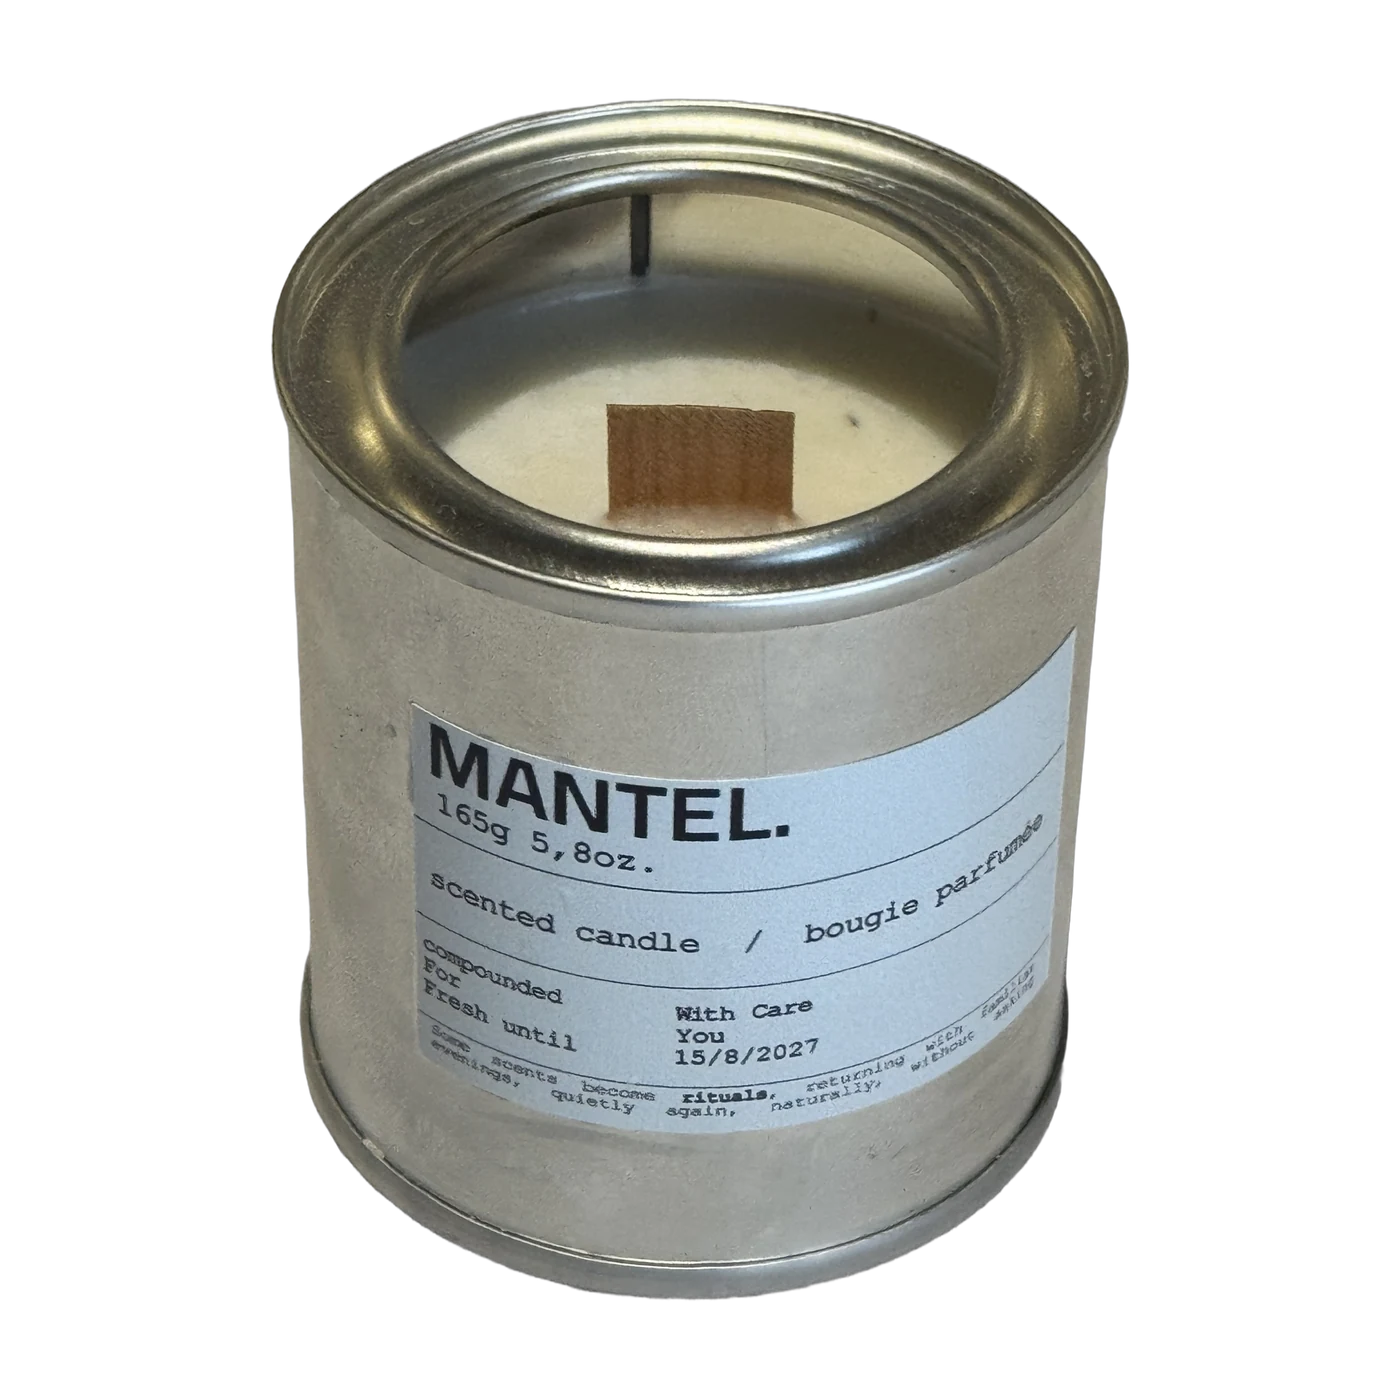
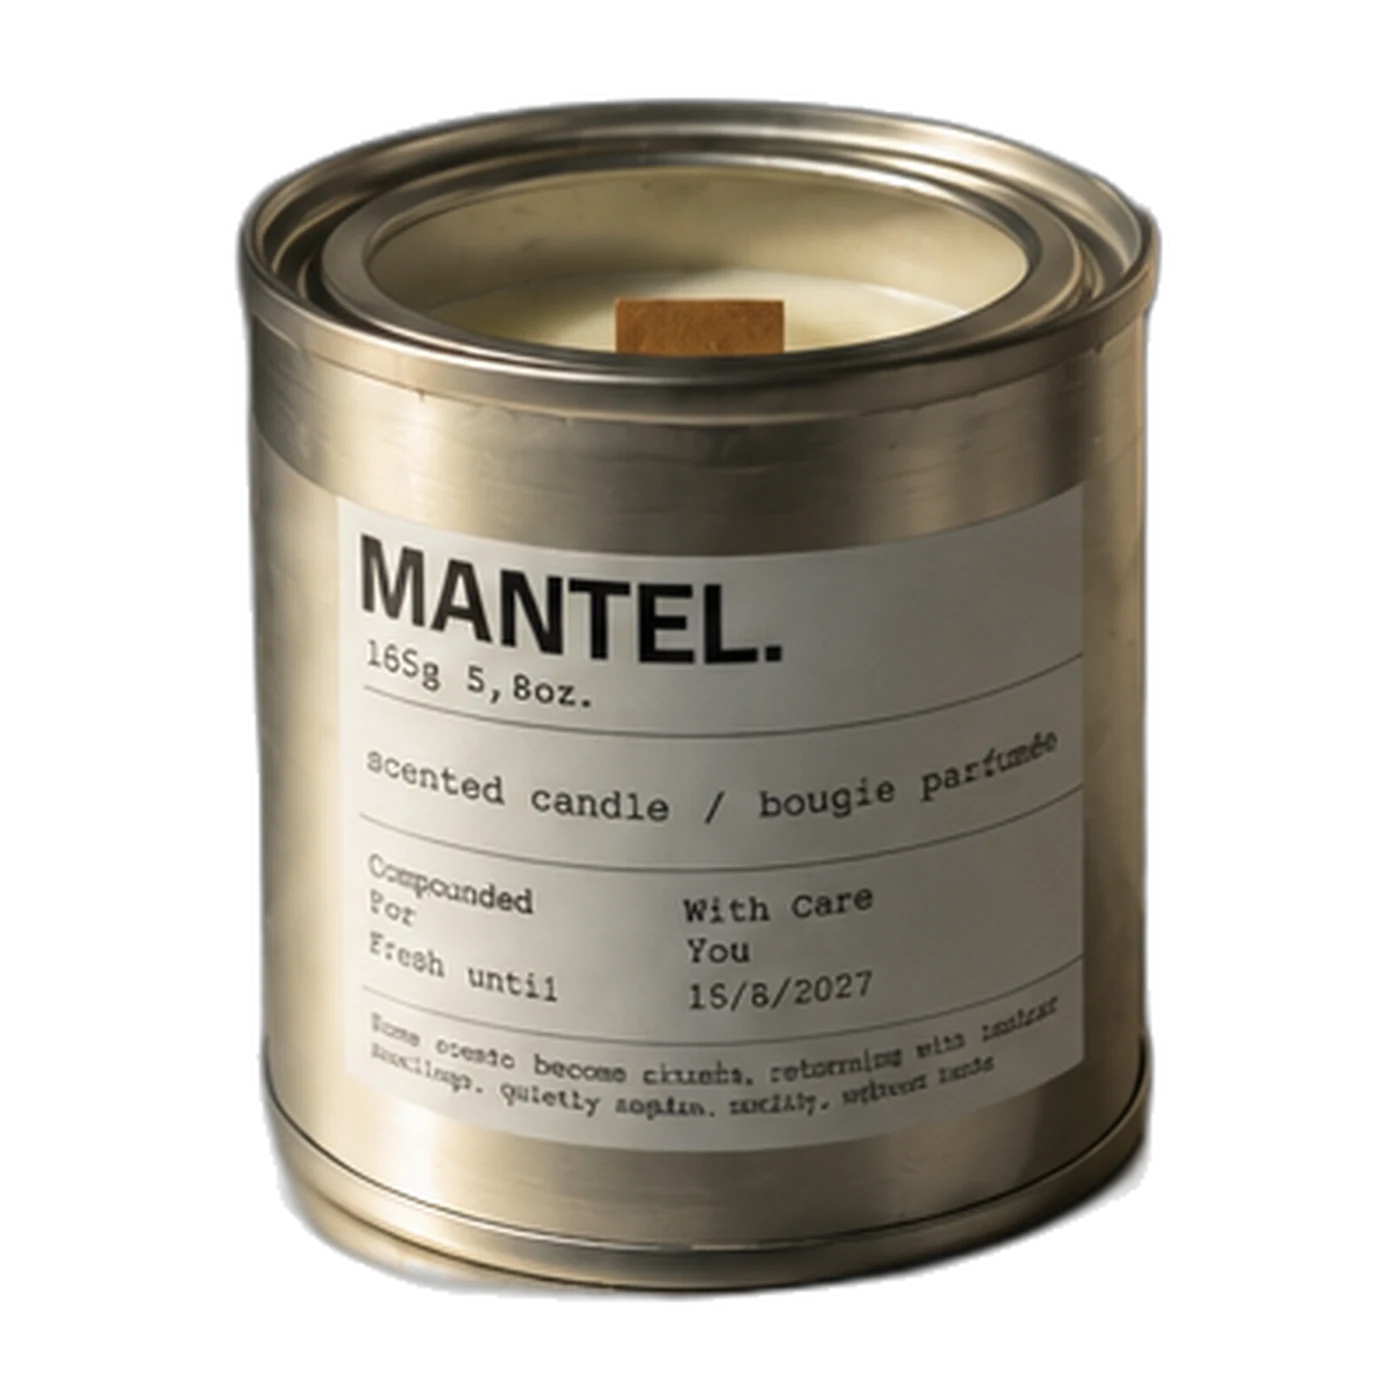
Split Lighters into two purchasable colourways, lead Match Sticks with the label shot, reshoot Candles
Lighters was one card stepping through both a leopard and a checkerboard
print, which meant "add to bag" always added whichever face the slider
happened to be showing — there was no way to actually choose a colour.
They're two separate lighters, not two faces of one, so they're now two
products (lighters-leopard, lighters-checkerboard), each with its own
front/back photos. 026 gives each its own Supabase objects row — App.tsx
resolves a backendId by matching RETAIL_PRODUCTS.name against objects.name,
so a split product needs a split row to stay purchasable. Dropped the
byAlias fallback in the same merge: "candles"/"match sticks"/"lighters"
all resolved to real, available rows directly once 013 published the
catalog, so it was matching nothing.

Match Sticks now leads with the printed label face instead of the open
box — same two photos, swapped order.

Candles gets its first real photo: the stamped tin, replacing the
placeholder macro shot.

Claude-Session: https://claude.ai/code/session_01YNooiFC1k2Jrv3Fm1HcV4i

diff --git a/src/app/content/retail.ts b/src/app/content/retail.ts
@@ -62,21 +62,24 @@ export type CartLine = {
 /*
  * ── THE PRODUCT PHOTOGRAPHS ─────────────────────────────────────────────────
  *
- * All five are the real objects. Candles is still the 2026-09-15 macro shot;
- * the other four were reshot 2026-09-23 — lighters, candle-sticks and
+ * All six are the real objects, reshot 2026-09-23 (candles, candle-sticks and
  * match-sticks each moved from one face to several, stepped through by
- * ObjectSlides the same way the tote already was:
+ * ObjectSlides the same way the tote already was):
  *
- *   candles        the stamped tin, macro
- *   lighters       both colourways, front then back each — leopard,
- *                  leopard, checkerboard, checkerboard
- *   candle-sticks  the pair of cream tapers, unlit then lit
- *   match-sticks   the open box, then the printed label face
- *   custom-bags    the "Mantel." tote and its red-heart face, also two
+ *   candles                the stamped tin, macro
+ *   lighters-leopard       front then back of the leopard lighter
+ *   lighters-checkerboard  front then back of the checkerboard lighter
+ *   candle-sticks          the pair of cream tapers, unlit then lit
+ *   match-sticks           the printed label face, then the open box
+ *   custom-bags            the "Mantel." tote and its red-heart face, also two
+ *
+ * Lighters used to be one card stepping through both colourways. Split into
+ * two products because they are two separate lighters, not two faces of one —
+ * each needs its own Supabase objects row to stay purchasable (see 026).
  *
  * matcha-powder used to be a sixth, and was the only one still on a pre-launch
- * mockup. It is gone rather than waiting for a photograph: a shelf of five real
- * objects reads better than six with one drawing.
+ * mockup. It is gone rather than waiting for a photograph: a shelf of real
+ * objects reads better than one with a drawing on it.
  *
  * EVERY FILE HERE IS A CUT-OUT ON TRANSPARENT PNG, trimmed to the object and
  * re-centred on one square canvas at a fixed margin. Both halves of that matter
@@ -121,29 +124,36 @@ export const RETAIL_PRODUCTS: RetailProduct[] = [
     collection: "Sits alongside the candles — the pair the shelf was built around.",
   },
   {
-    id: "lighters",
-    name: "Lighters",
+    id: "lighters-leopard",
+    name: "Lighters - Leopard",
     description: "A small object with a little ceremony.",
     price: 3,
     image: retailLighterLeopardFrontImage,
-    images: [
-      retailLighterLeopardFrontImage,
-      retailLighterLeopardBackImage,
-      retailLighterCheckerboardFrontImage,
-      retailLighterCheckerboardBackImage,
-    ],
+    images: [retailLighterLeopardFrontImage, retailLighterLeopardBackImage],
     tone: "lighter",
-    story: "A refillable flame in a pocket-sized case — one in leopard, one in checkerboard.",
+    story: "A refillable flame in a pocket-sized case, printed leopard.",
     care: "Refillable. Keep it out of reach of children and away from heat.",
-    collection: "Two colourways, leopard and checkerboard — the small object with a little ceremony.",
+    collection: "The leopard colourway — the small object with a little ceremony.",
+  },
+  {
+    id: "lighters-checkerboard",
+    name: "Lighters - Checkerboard",
+    description: "A small object with a little ceremony.",
+    price: 3,
+    image: retailLighterCheckerboardFrontImage,
+    images: [retailLighterCheckerboardFrontImage, retailLighterCheckerboardBackImage],
+    tone: "lighter",
+    story: "A refillable flame in a pocket-sized case, printed checkerboard.",
+    care: "Refillable. Keep it out of reach of children and away from heat.",
+    collection: "The checkerboard colourway — the small object with a little ceremony.",
   },
   {
     id: "match-sticks",
     name: "Match Sticks",
     description: "A little fire for the everyday ritual.",
     price: 2.5,
-    image: retailMatchSticksOpenImage,
-    images: [retailMatchSticksOpenImage, retailMatchSticksLabelImage],
+    image: retailMatchSticksLabelImage,
+    images: [retailMatchSticksLabelImage, retailMatchSticksOpenImage],
     tone: "matches",
     story: "A box of safety matches under the Mantel label, for the candles and everything else that needs a light.",
     care: "Store somewhere dry, away from the stove.",

diff --git a/src/app/App.tsx b/src/app/App.tsx
@@ -129,13 +129,8 @@ export default function App() {
       if (!live) return;
       if (result.ok) {
         const byName = new Map(result.objects.map((object) => [object.name.toLowerCase(), object]));
-        const byAlias = new Map([
-          ["candles", "scented candle"],
-          ["match sticks", "safety matches"],
-          ["lighters", "cold brew"],
-        ]);
         const merged = RETAIL_PRODUCTS.map((product) => {
-          const source = byName.get(product.name.toLowerCase()) ?? byName.get(byAlias.get(product.name.toLowerCase()) ?? "");
+          const source = byName.get(product.name.toLowerCase());
           return source
             ? { ...product, backendId: source.id, price: Number(source.price), description: source.description || product.description }
             : product;
